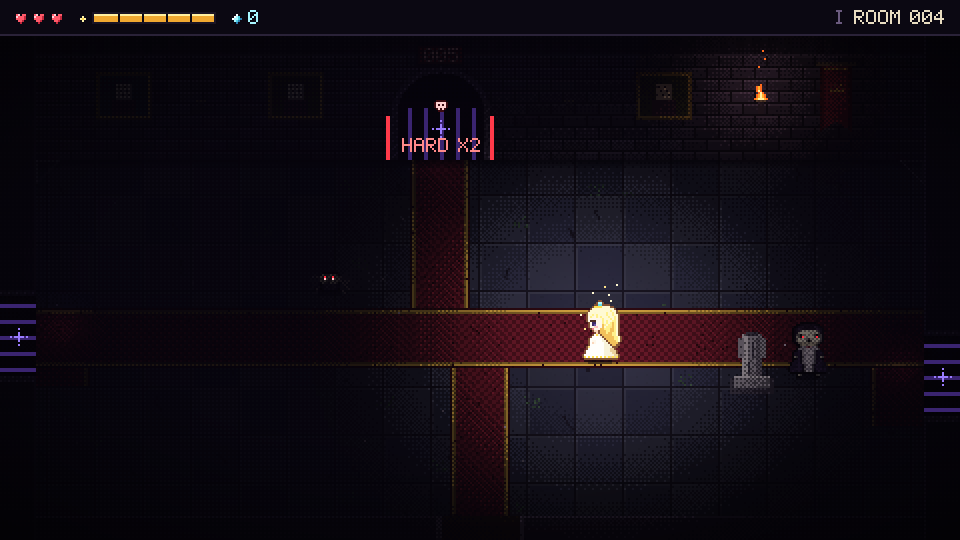
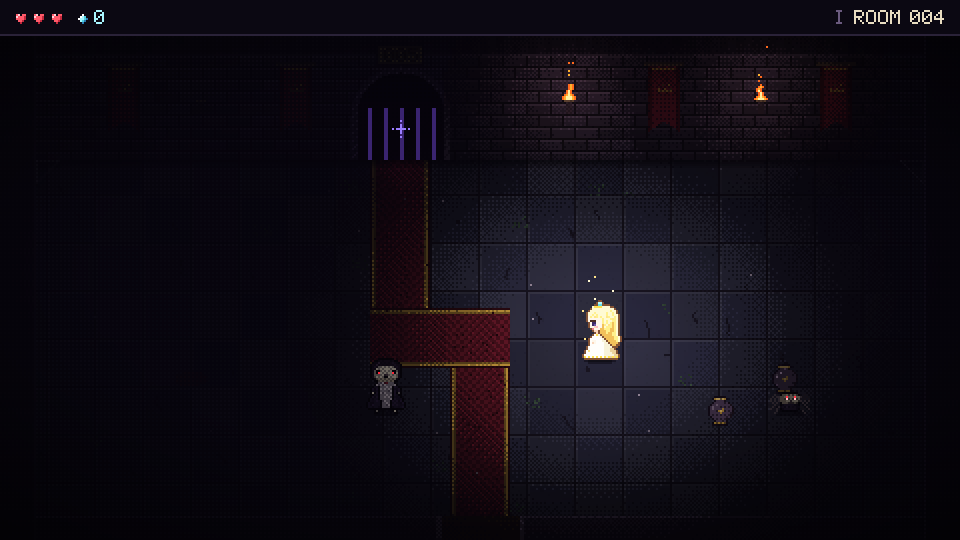
Add store art generator and refresh screenshots

diff --git a/tools/press.html b/tools/press.html
@@ -1,0 +1,118 @@
+<!doctype html><html><body style="margin:0;background:#000">
+<canvas id="banner" width="480" height="150"></canvas><canvas id="cover" width="315" height="250"></canvas><canvas id="bg" width="96" height="96"></canvas>
+<script src="../src/engine/core.js"></script><script src="../src/engine/sprites.js"></script><script src="../src/engine/font.js"></script>
+<script src="../src/art/characters.js"></script><script src="../src/art/monsters.js"></script><script src="../src/art/logo.js"></script>
+<script>
+// Store art for itch.io: banner, cover and a background tile, all drawn with the game's own pixel art.
+const B = [0, 8, 2, 10, 12, 4, 14, 6, 3, 11, 1, 9, 15, 7, 13, 5];
+const th = (x, y) => (B[(y & 3) * 4 + (x & 3)] + 0.5) / 16;
+function sky(ctx, W, H, horizon) {
+  const top = HC.hex('#05030b'), hor = HC.hex('#2a1634');
+  for (let y = 0; y < H; y++) for (let x = 0; x < W; x++) {
+    const t = Math.min(1, y / horizon) ** 1.5, band = Math.floor(t * 6), f = t * 6 - band;
+    const tt = (band + (f > th(x, y) ? 1 : 0)) / 6;
+    ctx.fillStyle = HC.rgb(top.map((v, i) => v + (hor[i] - v) * tt)); ctx.fillRect(x, y, 1, 1);
+  }
+  const rng = HC.makeRng(7);
+  for (let i = 0; i < W * H / 180; i++) { ctx.fillStyle = rng() < 0.25 ? '#a898c8' : '#3a3050'; ctx.fillRect(rng.int(0, W), rng.int(0, horizon), 1, 1); }
+}
+// golden glow: opaque dithered bands of warm light with long rays
+function glow(ctx, cx, cy, r, W, H) {
+  const bands = ['#2a1430', '#3a1c2a', '#5a2a22', '#8a4a1c', '#c07a24', '#f0b040'];
+  for (let y = 0; y < H; y++) for (let x = 0; x < W; x++) {
+    const dx = x - cx, dy = y - cy, d = Math.hypot(dx, dy) / r;
+    const ang = Math.atan2(dy, dx), ray = Math.pow(0.5 + 0.5 * Math.cos(ang * 10), 6);
+    let v = Math.max(0, 1 - d) ** 1.4 * 1.05 + Math.max(0, 1 - d / 2.2) ** 2 * ray * 0.55;
+    if (v <= 0.02) continue;
+    const k = v * bands.length, i = Math.floor(k), f = k - i;
+    const idx = Math.min(bands.length - 1, i + (f > th(x, y) ? 1 : 0)) - 1;
+    if (idx < 0) continue;
+    ctx.fillStyle = bands[idx]; ctx.fillRect(x, y, 1, 1);
+  }
+}
+function clouds(ctx, W, list, sunX, sunY) {
+  list.forEach(([cx, cy, w, h]) => {
+    for (let y = cy - h; y < cy + h; y++) for (let x = cx - w; x < cx + w; x++) {
+      const d = ((x - cx) / w) ** 2 + ((y - cy) / h) ** 2;
+      if (d > 1 || d > 0.6 + th(x, y) * 0.4) continue;
+      const lit = Math.max(0, 1 - Math.hypot(x - sunX, y - sunY) / 220);
+      const top = y < cy - h * 0.3;
+      ctx.fillStyle = top ? (lit > 0.5 ? '#d08a30' : lit > 0.25 ? '#8a4a2a' : '#4a2a3a') : (lit > 0.4 ? '#5a2a2a' : '#2a1626');
+      ctx.fillRect(x, y, 1, 1);
+    }
+  });
+}
+function castle(ctx, W, base, scale, rngSeed, centerX) {
+  const rng = HC.makeRng(rngSeed), wall = '#0d0818', rim = '#b0702a', cx = (centerX || W / 2), s = scale;
+  ctx.fillStyle = '#120a1e';
+  for (let x = 0; x < W; x++) { const h = base - 10 * s - Math.round(Math.sin(x * 0.02 / s + 1) * 6 * s + Math.sin(x * 0.05 / s) * 3 * s); ctx.fillRect(x, h, 1, 300); }
+  ctx.fillStyle = wall; ctx.fillRect(cx - 110 * s, base - 70 * s, 220 * s, 300);
+  for (let x = cx - 110 * s; x < cx + 110 * s; x += 8 * s) ctx.fillRect(x, base - 74 * s, 5 * s, 4 * s);
+  const tower = (x, w, h, roof) => {
+    x = cx + x * s; w *= s; h *= s; roof *= s; const y = base - h;
+    ctx.fillStyle = wall; ctx.fillRect(x, y, w, 300); ctx.fillStyle = rim; ctx.fillRect(x, y, 1, h);
+    if (roof) { for (let j = 0; j < roof; j++) { const ww = Math.round((w + 4 * s) * (1 - j / roof)); ctx.fillStyle = wall; ctx.fillRect(Math.round(x + w / 2 - ww / 2), y - j, ww, 1); } ctx.fillStyle = rim; ctx.fillRect(Math.round(x + w / 2), y - roof - 3 * s, 1, 4 * s); }
+    else for (let xx = x; xx < x + w; xx += 4 * s) { ctx.fillStyle = wall; ctx.fillRect(xx, y - 3 * s, 2 * s, 3 * s); }
+    for (let n = 0; n < Math.floor(h / (20 * s)); n++) if (rng() < 0.6) { ctx.fillStyle = rng() < 0.4 ? '#e09030' : '#8a4a20'; ctx.fillRect(Math.round(x + w / 2 - s), y + 10 * s + n * 20 * s, 2 * s, 4 * s); }
+  };
+  tower(-122, 18, 92, 24); tower(-90, 14, 70, 0); tower(-58, 22, 120, 30); tower(36, 22, 112, 28); tower(76, 14, 76, 0); tower(104, 18, 98, 26);
+  ctx.fillStyle = wall; ctx.fillRect(cx - 26 * s, base - 132 * s, 52 * s, 300);
+  [[0, 8], [8, 14], [16, 6], [24, 18], [32, 7], [40, 12], [48, 4]].forEach(([x, h]) => ctx.fillRect(cx - 26 * s + x * s, base - 132 * s - h * s, 4 * s, h * s));
+  ctx.fillStyle = rim; ctx.fillRect(cx - 26 * s, base - 132 * s, 1, 132 * s);
+  ctx.fillStyle = '#05030a'; ctx.fillRect(cx - 12 * s, base - 34 * s, 24 * s, 300);
+  ctx.fillStyle = '#ff2a3c'; ctx.fillRect(cx - 3 * s, base - 24 * s, 1, 1); ctx.fillRect(cx + 2 * s, base - 24 * s, 1, 1);
+}
+function princess(ctx, x, y, scale) {
+  const s = HC.art.princess.up[0];
+  ctx.drawImage(s.base, Math.round(x - s.w * scale / 2), Math.round(y - s.h * scale), s.w * scale, s.h * scale);
+}
+function ground(ctx, W, H, y0) {
+  ctx.fillStyle = '#07040c'; ctx.fillRect(0, y0, W, H - y0);
+  for (let y = y0; y < H; y++) { const w = 20 + (y - y0) * 2.2; for (let x = Math.round(W / 2 - w / 2); x < W / 2 + w / 2; x++) if (((x >> 1) + (y >> 1)) & 1) { ctx.fillStyle = '#18102a'; ctx.fillRect(x, y, 1, 1); } }
+}
+function motes(ctx, cx, cy, n, spread, seed) {
+  const r = HC.makeRng(seed);
+  for (let i = 0; i < n; i++) { ctx.fillStyle = r() < 0.5 ? '#fff7d0' : '#ffd650'; ctx.fillRect(Math.round(cx + (r() - 0.5) * spread), Math.round(cy - r() * spread * 0.8), 1, 1); }
+}
+function eyes(ctx, pts) { ctx.fillStyle = '#ff2a3c'; pts.forEach(([x, y]) => { ctx.fillRect(x, y, 1, 1); ctx.fillRect(x + 3, y, 1, 1); }); }
+
+// ---- banner 480x150 (shown at 960x300) ----
+{
+  const c = document.getElementById('banner'), ctx = c.getContext('2d'), W = 480, H = 150;
+  sky(ctx, W, H, 140);
+  glow(ctx, 70, 66, 90, W, H);
+  clouds(ctx, W, [[150, 104, 70, 6], [40, 122, 60, 5], [300, 112, 60, 5], [220, 128, 80, 6]], 70, 66);
+  castle(ctx, W, 158, 0.58, 3, 400);
+  ctx.fillStyle = '#07040c'; for (let x = 0; x < W; x++) { const h = 142 + Math.round(Math.sin(x * 0.03) * 3); ctx.fillRect(x, h, 1, 20); }
+  HC.sprites.draw(ctx, HC.art.sun, 70, 66 + HC.art.sun.h / 2, 'glow');
+  HC.font.draw(ctx, 'HOLLOWCROWN', 250, 30, '#ffd650', { align: 'center', scale: 3, shadow: '#5a3a10' });
+  HC.font.draw(ctx, 'A PRINCESS OF LIGHT. A CASTLE THAT FORGOT THE SUN.', 250, 60, '#f0dcb0', { align: 'center', shadow: '#1a0c10' });
+  eyes(ctx, [[300, 146], [452, 140], [180, 147]]);
+}
+// ---- cover 315x250 (shown at 630x500) ----
+{
+  const c = document.getElementById('cover'), ctx = c.getContext('2d'), W = 315, H = 250;
+  sky(ctx, W, H, 200);
+  glow(ctx, W / 2, 50, 110, W, H);
+  clouds(ctx, W, [[70, 120, 70, 6], [250, 112, 70, 6], [160, 140, 90, 5]], W / 2, 50);
+  castle(ctx, W, 218, 0.78, 5);
+  ground(ctx, W, H, 214);
+  HC.sprites.draw(ctx, HC.art.sun, W / 2, 50 + HC.art.sun.h / 2, 'glow');
+  HC.font.draw(ctx, 'HOLLOWCROWN', W / 2, 92, '#ffd650', { align: 'center', scale: 2, shadow: '#5a3a10' });
+  motes(ctx, W / 2, 210, 26, 40, 9);
+  princess(ctx, W / 2, 238, 2);
+  eyes(ctx, [[40, 224], [266, 220], [92, 232]]);
+}
+// ---- background tile 96x96: dark castle bricks ----
+{
+  const c = document.getElementById('bg'), ctx = c.getContext('2d');
+  for (let y = 0; y < 96; y++) for (let x = 0; x < 96; x++) {
+    const row = Math.floor(y / 8), off = row & 1 ? 8 : 0, rx = (x + off) % 16, ry = y % 8;
+    const r = HC.makeRng(Math.floor((x + off) / 16) * 31 + row * 7)();
+    let col = HC.hex('#130d1e').map((v) => v * (0.85 + r * 0.25));
+    if (ry === 7 || rx === 15) col = HC.hex('#08050d');
+    else if (ry === 0) col = HC.hex('#1c142a');
+    ctx.fillStyle = HC.rgb(col); ctx.fillRect(x, y, 1, 1);
+  }
+}
+</script></body></html>
